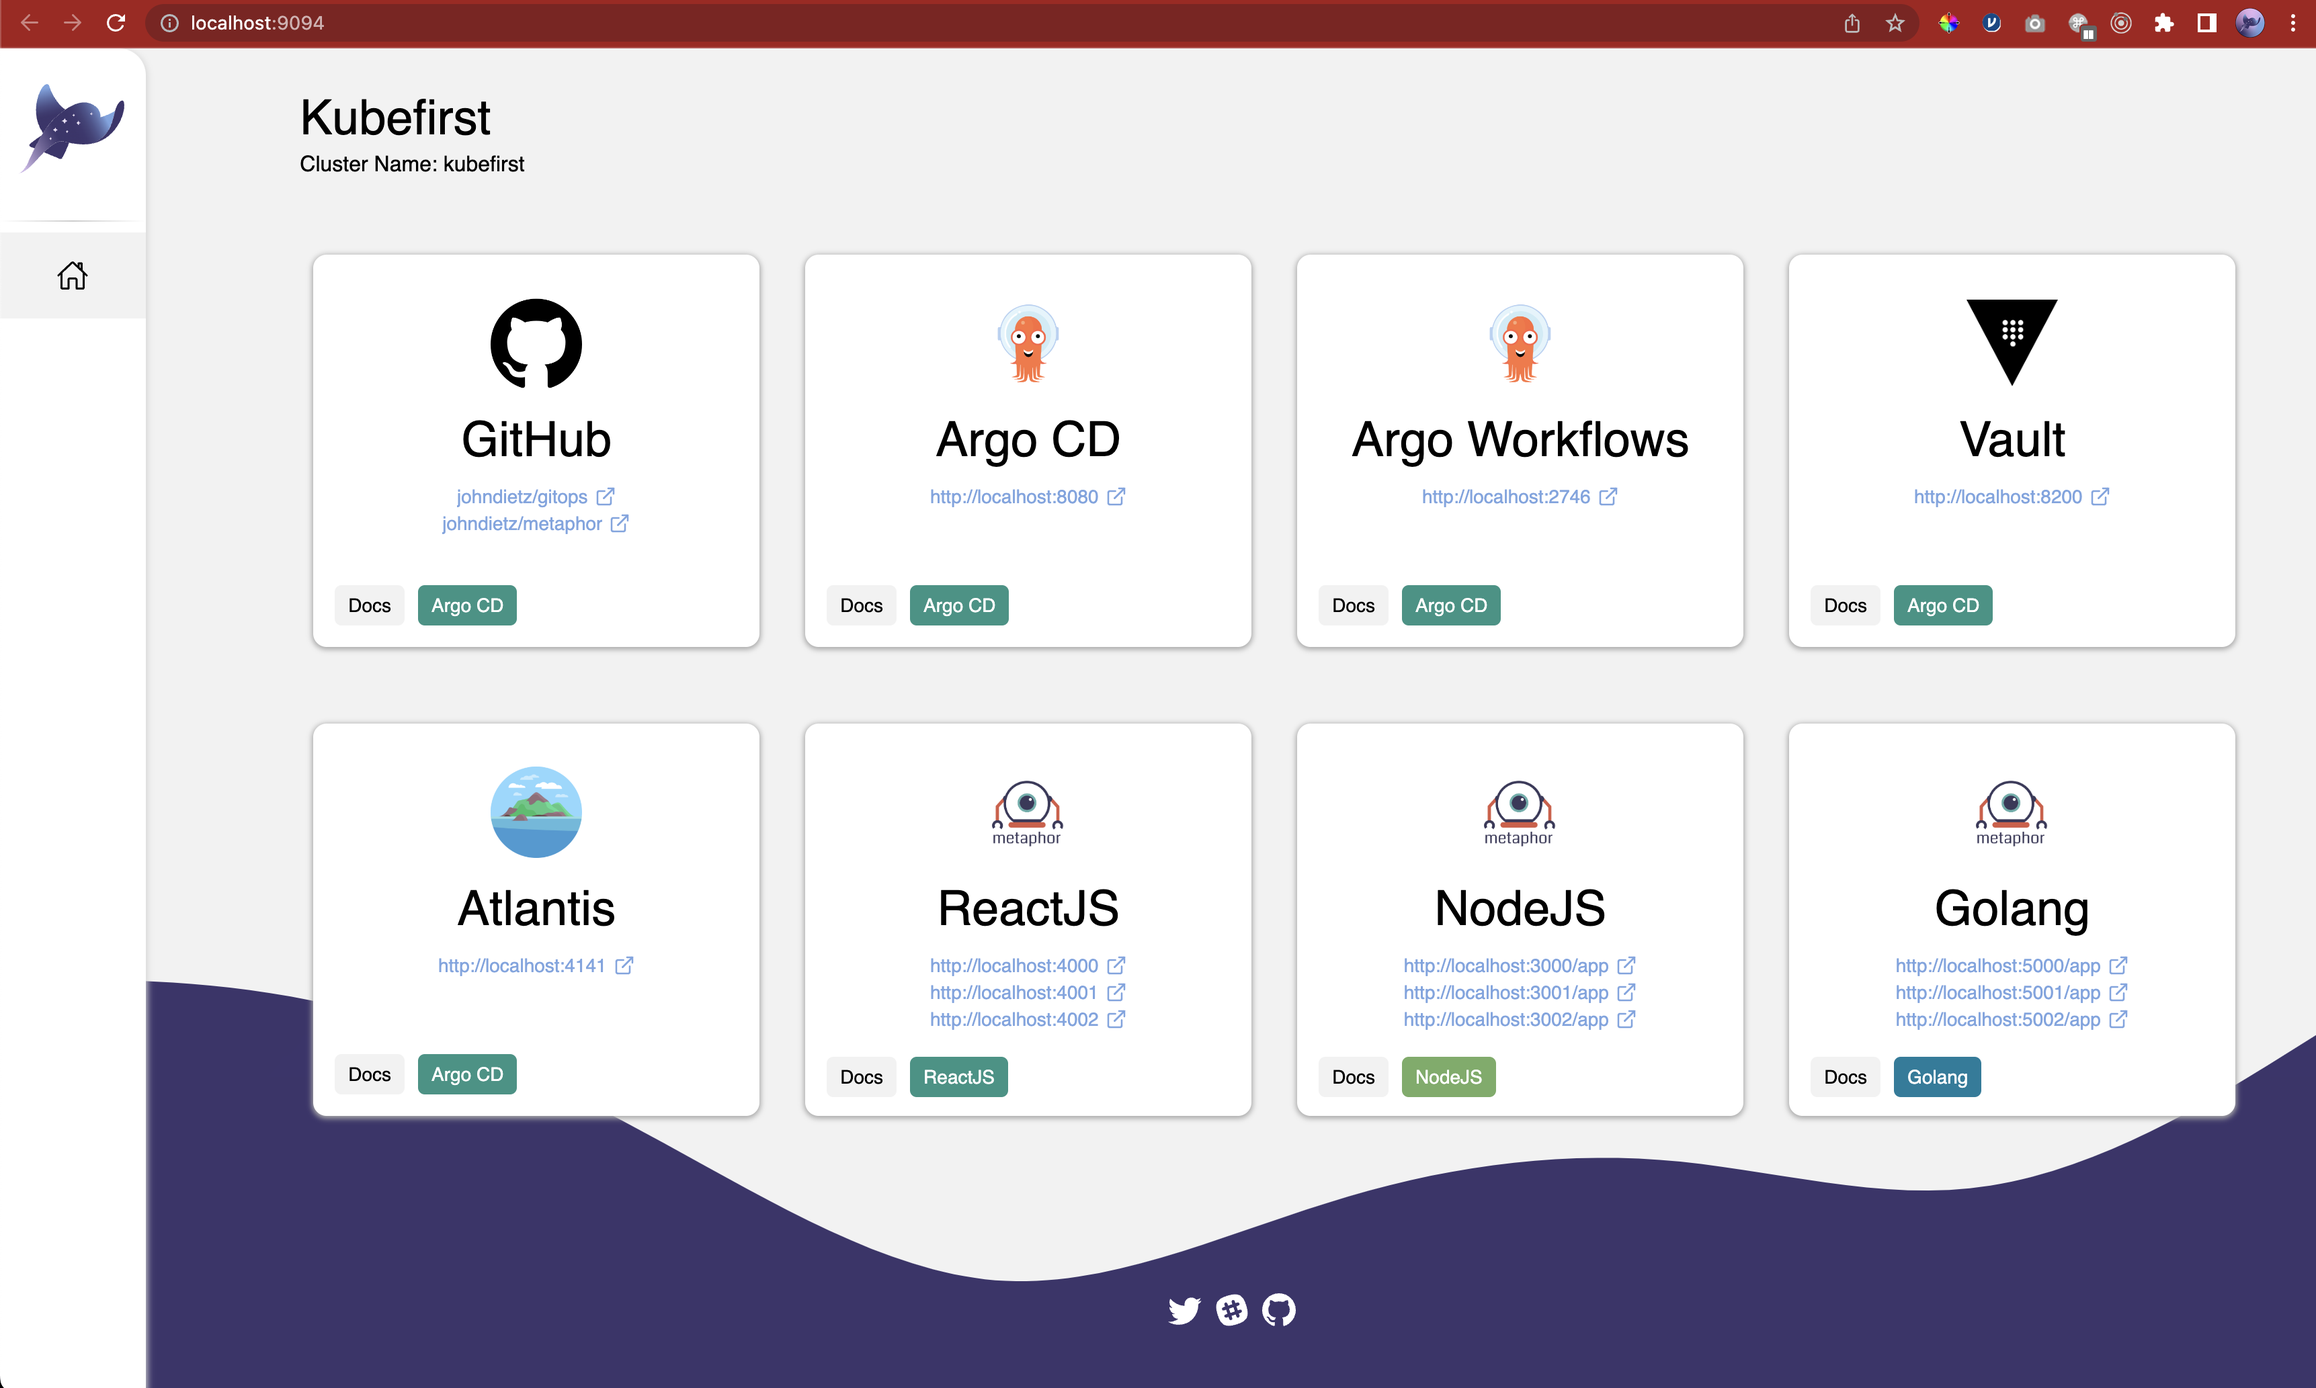
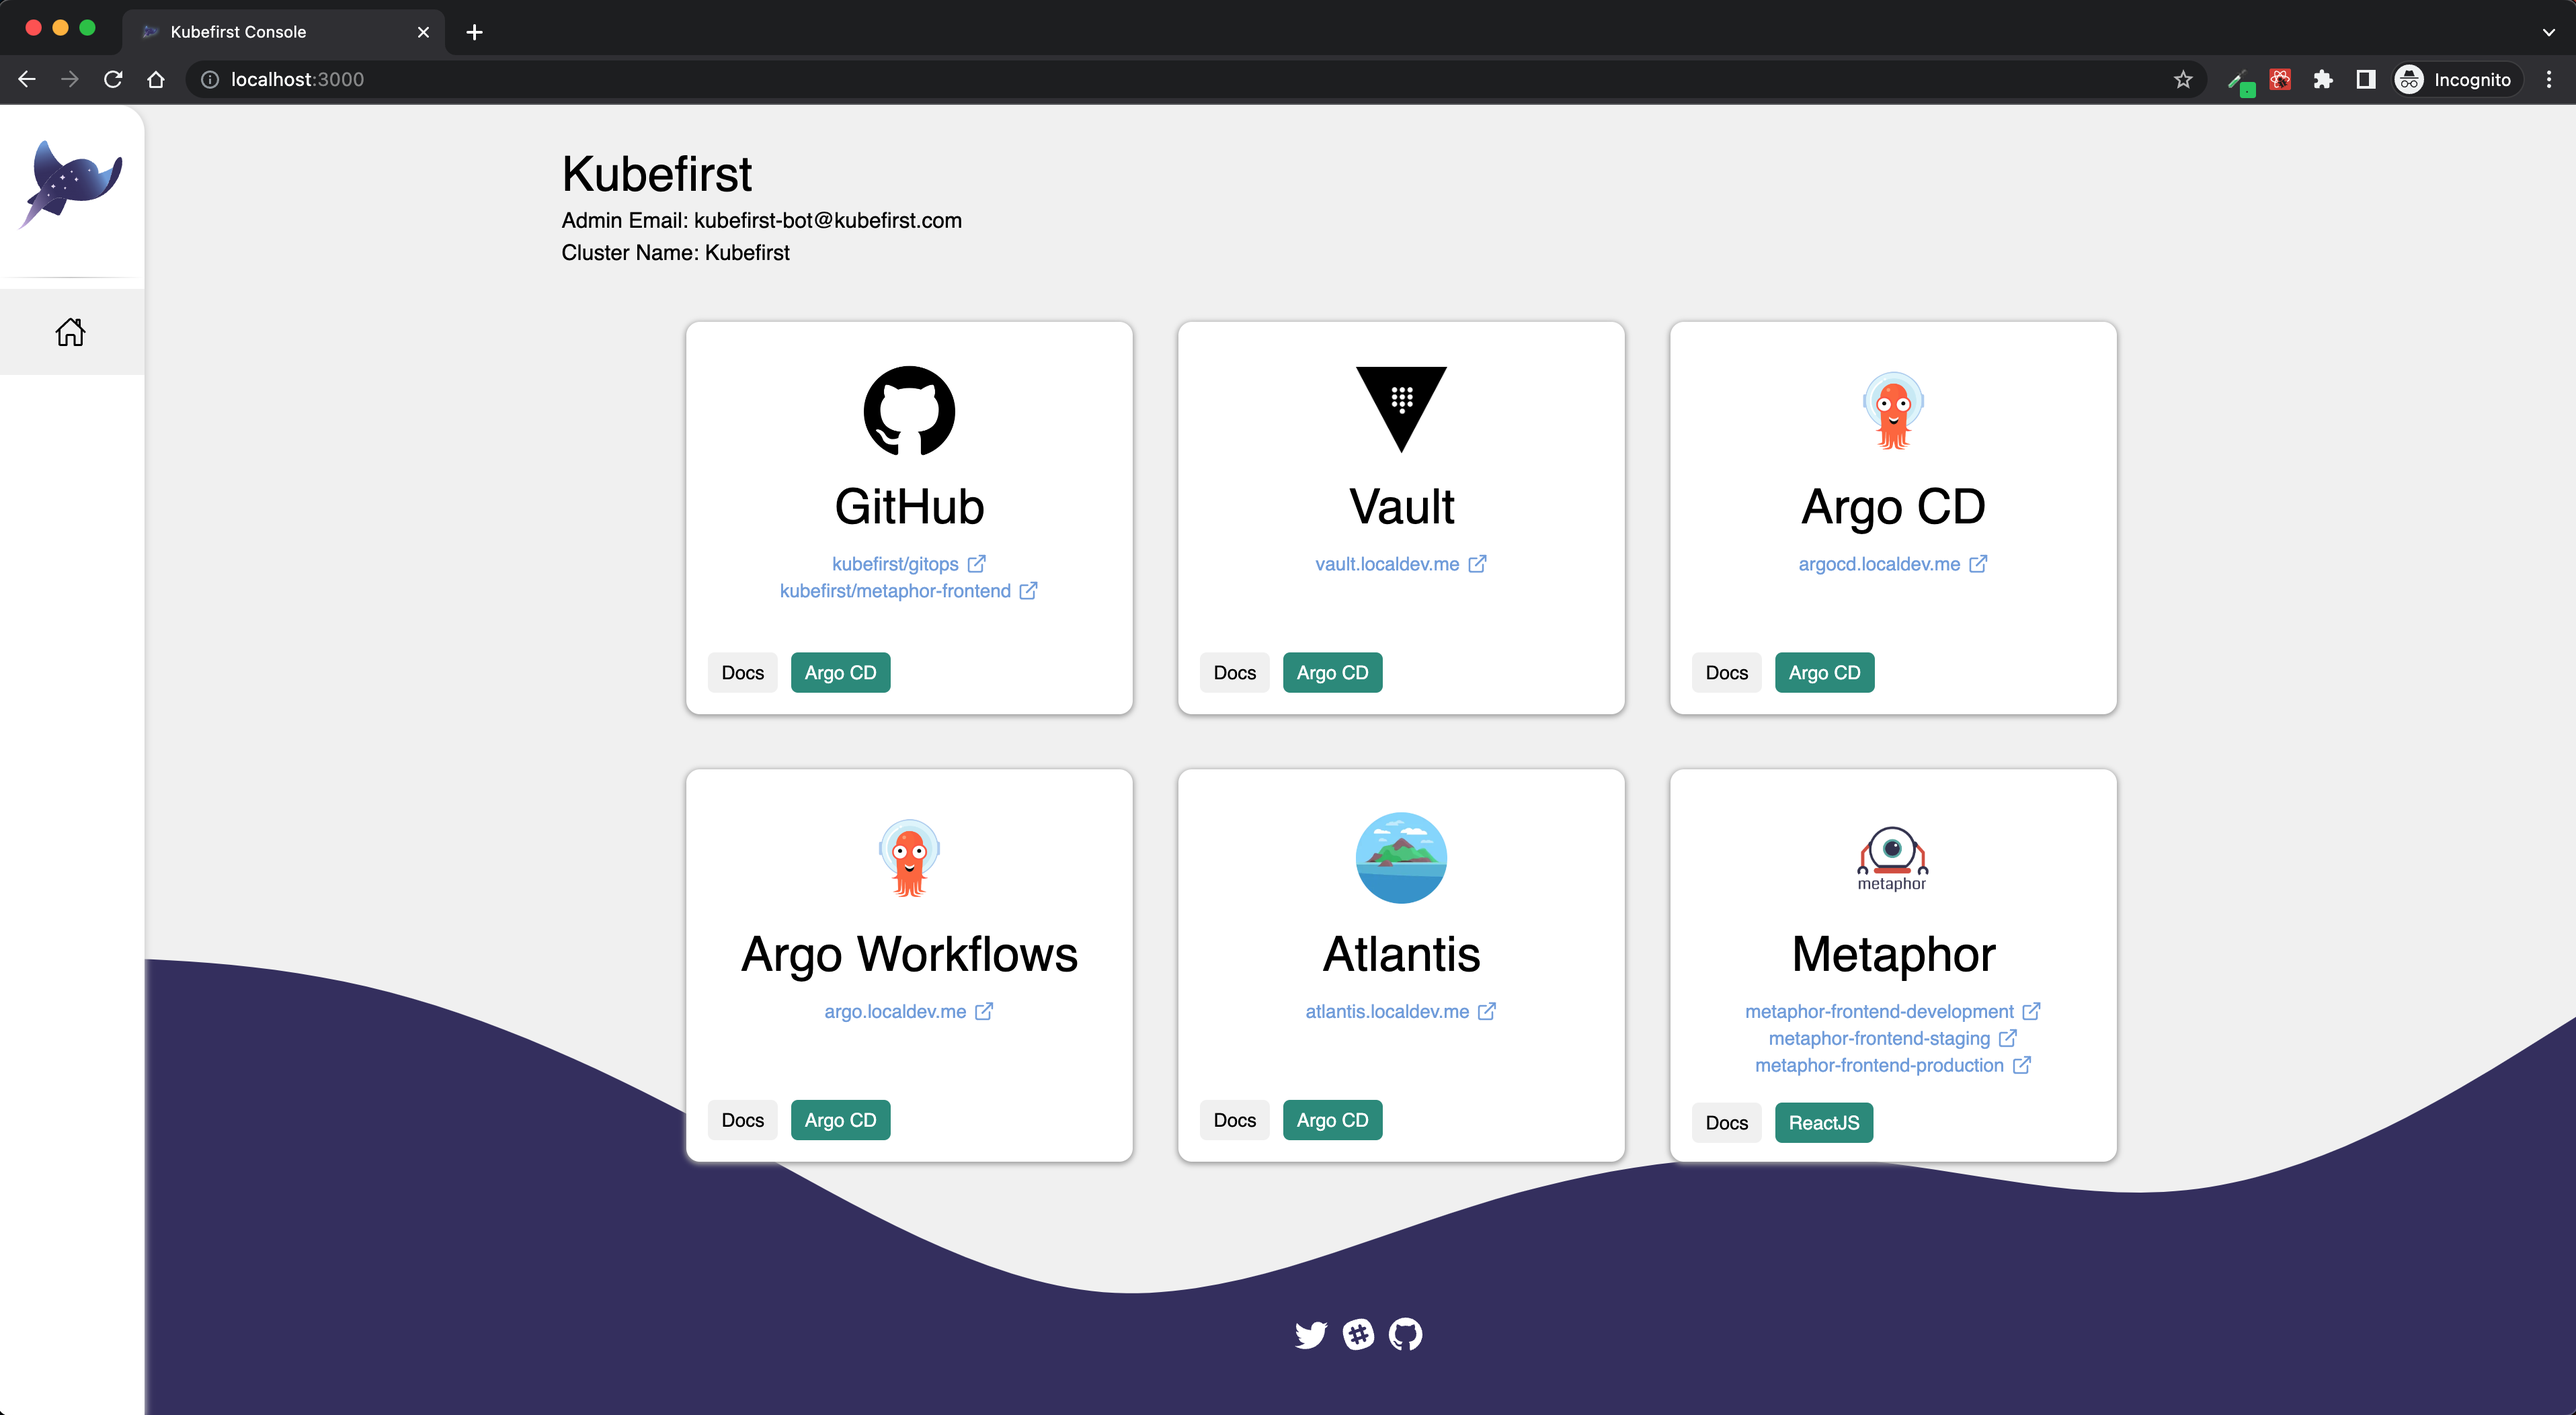
feat: methaphor doc updates for local

diff --git a/docs/kubefirst/local/after-install.md b/docs/kubefirst/local/after-install.md
@@ -8,20 +8,18 @@ The `kubefirst local` execution includes important information toward the end, i
 
 You now have a k3d cluster with the following content installed in it:
 
-| Application                  | Description                                                                |
-|------------------------------|----------------------------------------------------------------------------|
-| Traefik Ingress Controller   | Native k3d Ingress Controller                                              |
-| Cert Manager                 | Certificate Automation Utility                                             |
-| Argo CD                      | GitOps Continuous Delivery                                                 |
-| Argo Workflows               | Application Continuous Integration                                         |
-| GitHub Action Runner         | GitHub CI Executor                                                         |
-| Vault                        | Secrets Management                                                         |
-| Atlantis                     | Terraform Workflow Automation                                              |
-| External Secrets             | Syncs Kubernetes secrets with Vault secrets                                |
-| Chart Museum                 | Helm Chart Registry                                                        |
-| Metaphor                     | (development, staging, production) instance of sample nodejs backend app   |
-| Metaphor Go                  | (development, staging, production) instance of sample golang backend app   |
-| Metaphor Frontend            | (development, staging, production) instance of sample react frontend app   |
+| Application                  | Description                                                                            |
+|------------------------------|----------------------------------------------------------------------------------------|
+| Traefik Ingress Controller   | Native k3d Ingress Controller                                                          |
+| Cert Manager                 | Certificate Automation Utility                                                         |
+| Argo CD                      | GitOps Continuous Delivery                                                             |
+| Argo Workflows               | Application Continuous Integration                                                     |
+| GitHub Action Runner         | GitHub CI Executor                                                                     |
+| Vault                        | Secrets Management                                                                     |
+| Atlantis                     | Terraform Workflow Automation                                                          |
+| External Secrets             | Syncs Kubernetes secrets with Vault secrets                                            |
+| Chart Museum                 | Helm Chart Registry                                                                    |
+| Metaphor Frontend            | (development, staging, production) instance of sample Nextjs and React app             |
 
 - These apps are all managed by Argo CD and the app configurations are in the `gitops` repo's `registry` folder.
 - The AWS infrastructure is terraform - that's also in your `gitops` repo, but in your `terraform` folder.

diff --git a/docs/kubefirst/local/github-repositories.md b/docs/kubefirst/local/github-repositories.md
@@ -1,6 +1,6 @@
 # GitHub Repositories
 
-When you install the local version of kubefirst, 4 new repositories will be added to your personal github account as shown here.
+When you install the local version of kubefirst, 2 new repositories will be added to your personal github account as shown here.
 
 ![GitHub repositories](../../img/kubefirst/local/repos-list.png)
 
@@ -10,16 +10,16 @@ When you install the local version of kubefirst, 4 new repositories will be adde
 
 The GitOps repo houses all of our IAC and all our GitOps configurations. All the infrastructure that you receive with Kubefirst was produced by some combination of Terraform and ArgoCD. You will add to this repository as your business needs require new infrastructure or new applications.
 
-`metaphor suite`
+`metaphor frontend`
 
-The metaphor suite is a set of example applications used to showcase various features of the Kubefirst platform. The Metaphor apps have CI/CD
+The metaphor frontend is an of example application used to showcase various features of the Kubefirst platform. The Metaphor app has CI/CD
 that deliver each app to a development, staging, and production namespace in your Kubernetes cluster. The metaphor service apps' secrets in
 vault are bound to the metaphor app through the use of external-secrets, a handy Kubernetes utility to keep Kubernetes
 secrets in sync with the vault source of truth. It also demonstrates how DNS entries are automatically
 created in Route 53 using external-dns. It also has auto-renewing, short-lived certificates generated by cert-manager and the Let's Encrypt cluster-issuer.
 
 
-The available Metaphor applications are, **Metaphor (NodeJS API)**, **Metaphor (Go API)** and **Metaphor Frontend**.
+The available Metaphor application is **Metaphor Frontend** which is a slim version of our Metaphor Suite. Uses NextJS to provide both API and a Frontend application. 
 The Metaphor applications are described in more details [here](../../common/metaphor.md).
 
 ## GitHub Repository Management

diff --git a/docs/kubefirst/local/install.md b/docs/kubefirst/local/install.md
@@ -35,7 +35,7 @@ The `kubefirst local` command will request that you authorize the Kubefirst CLI 
 
 #### Why the Kubefirst cli needs this access
 
-The [gitops repo](https://github.com/kubefirst/gitops-template) that we create for you will power your local Kubefirst platform. The [metaphor](https://github.com/kubefirst/metaphor-template), [metaphor-go](https://github.com/kubefirst/metaphor-go-template), and [metaphor-frontend](https://github.com/kubefirst/metaphor-frontend-template) repos are your microservices examples, which demonstrate how to publish and gitops-deliver applications to your new development, staging, and production namespaces in your new local cluster.
+The [gitops repo](https://github.com/kubefirst/gitops-template) that we create for you will power your local Kubefirst platform. The [metaphor-frontend](https://github.com/kubefirst/metaphor-frontend-template) repo is your microservice example, which demonstrate how to publish and gitops-deliver applications to your new development, staging, and production namespaces in your new local cluster.
 
 ## After installation
 
